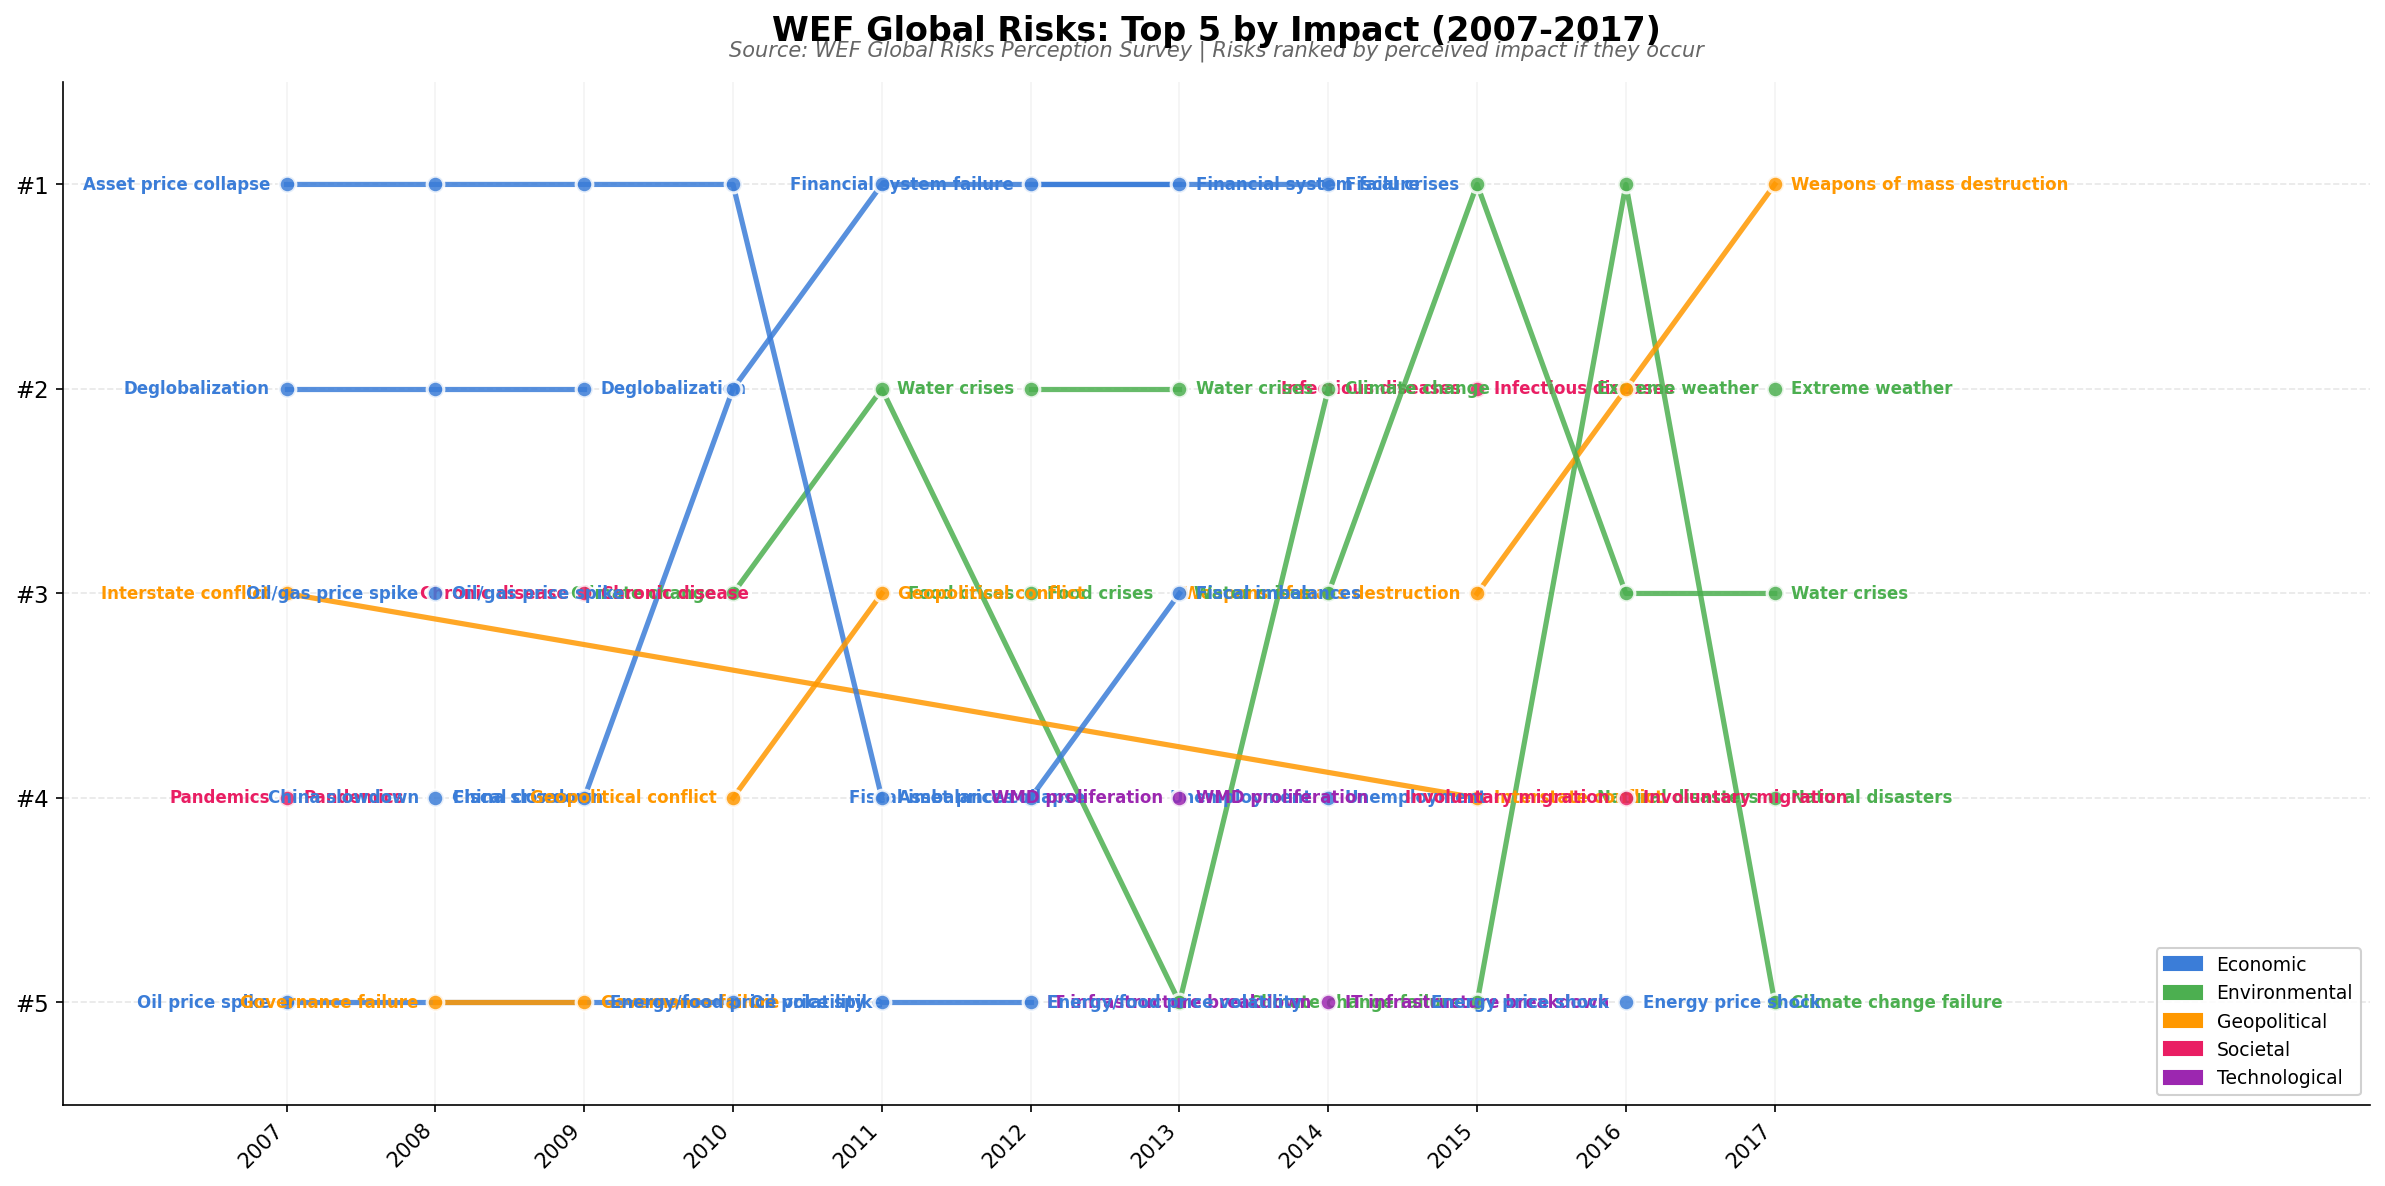
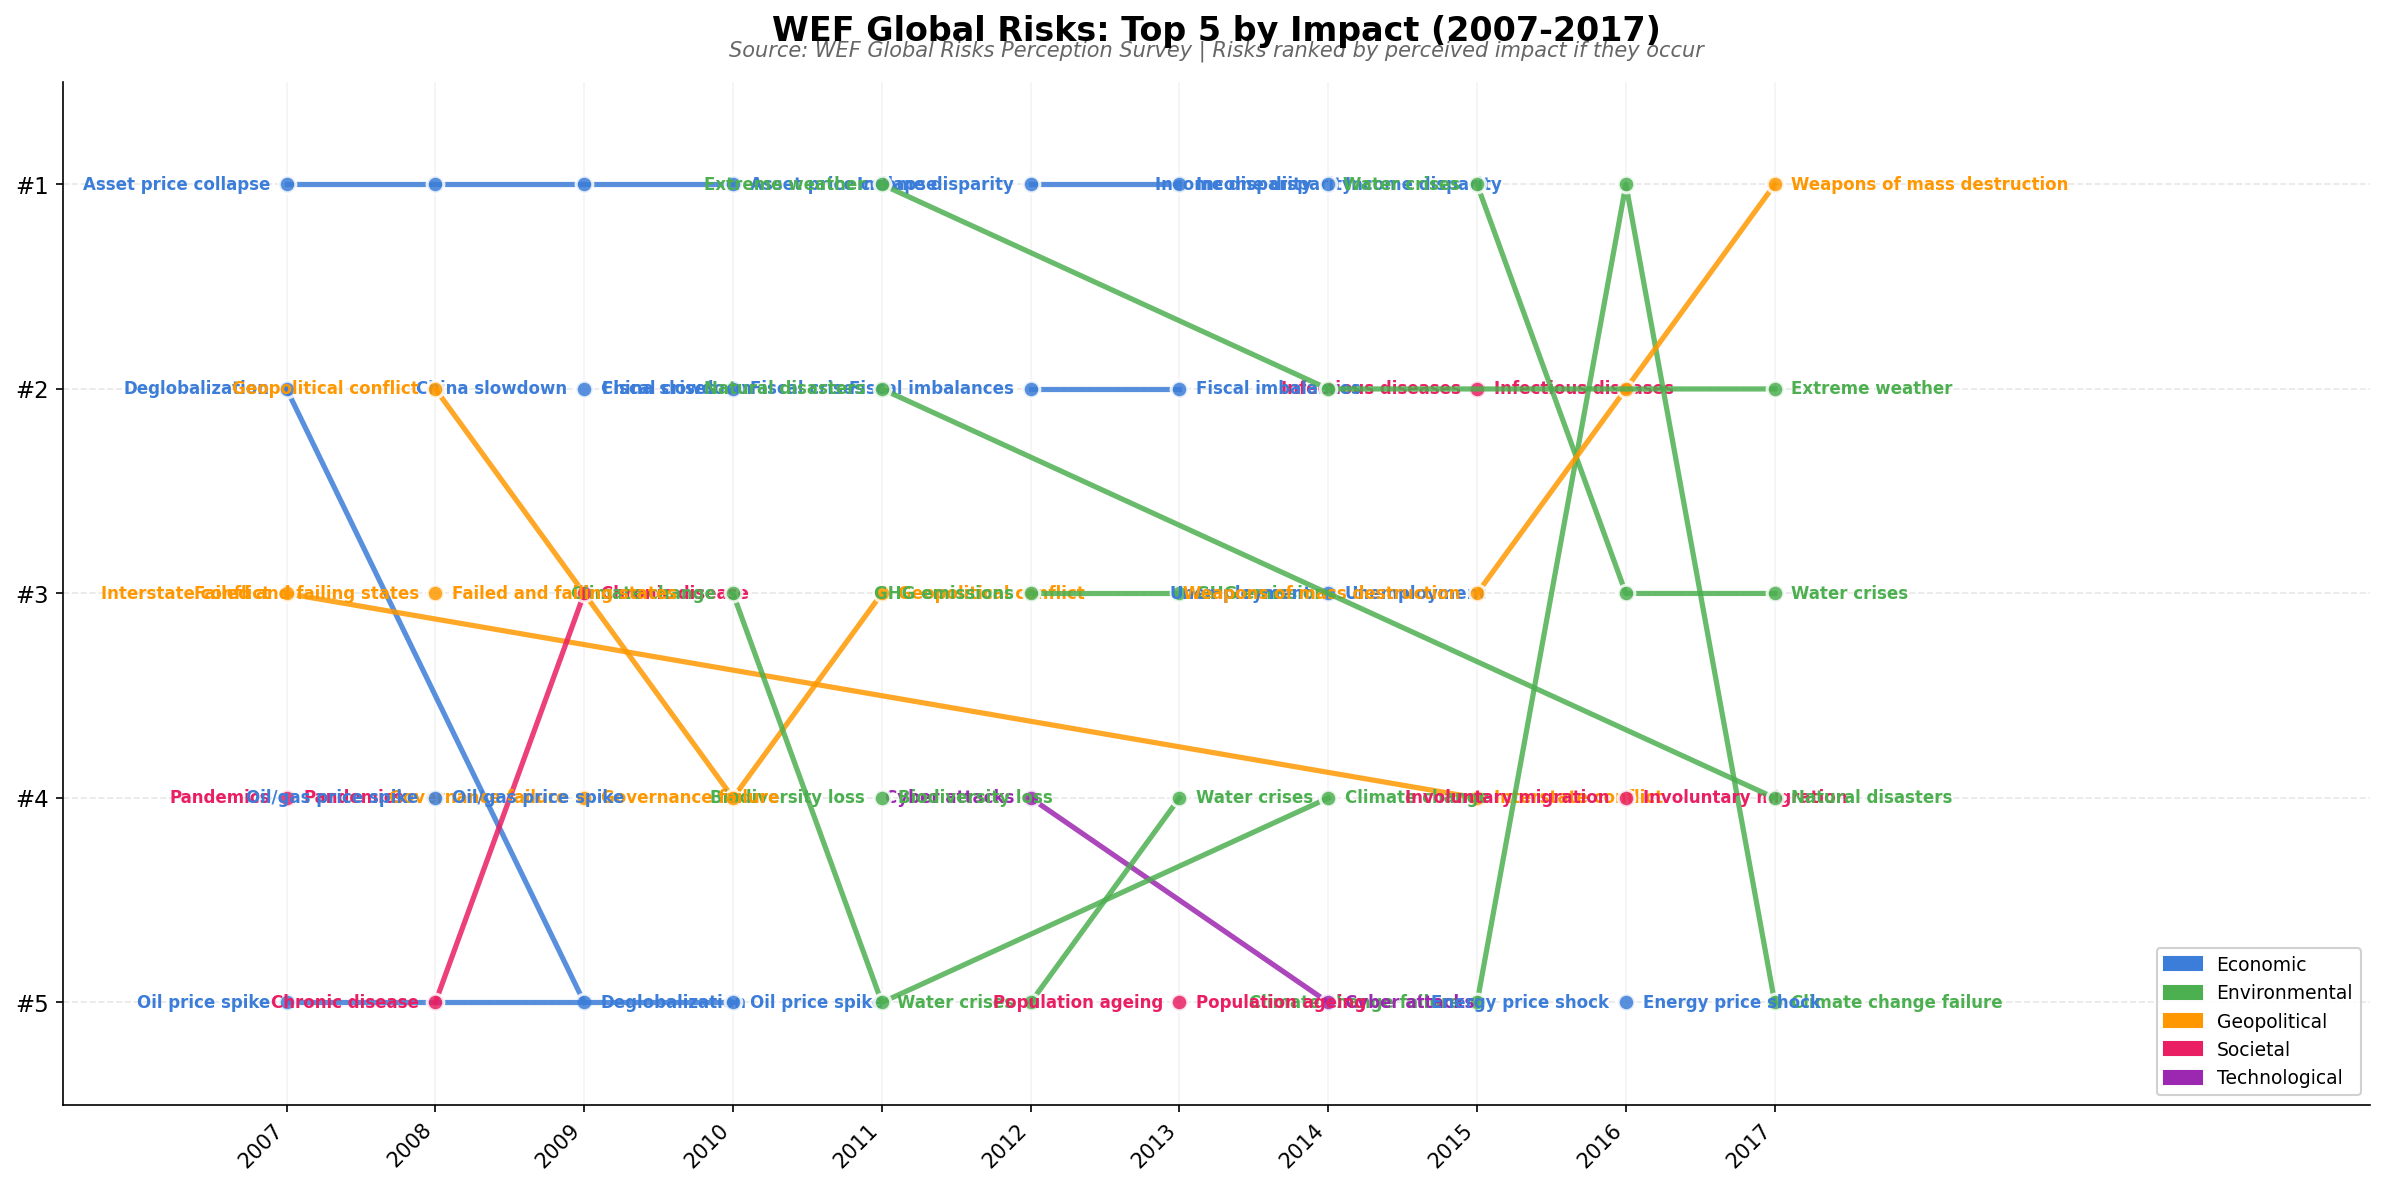
Fix impact rankings data from 2017 retrospective, add missing normalizations, regenerate charts
Agent-Logs-Url: https://github.com/zilch-sand/experiments/sessions/d0eb9f2d-68b7-498d-b790-b69d50a9737f

diff --git a/wef-global-risks/data.py b/wef-global-risks/data.py
@@ -100,6 +100,7 @@ RISK_CATEGORIES = {
     "Interstate armed conflict": "Geopolitical",
     "State-based armed conflict": "Geopolitical",
     "Geopolitical conflict": "Geopolitical",
+    "Middle East instability": "Geopolitical",
     "Failed and failing states": "Geopolitical",
     "State collapse or crisis": "Geopolitical",
     "Failure of national governance": "Geopolitical",
@@ -203,7 +204,7 @@ TOP_LIKELIHOOD = {
         "Asset price collapse",
         "Climate change",
         "Geopolitical conflict",
-        "Asset price collapse",  # note: duplicate in source, likely "Oil price spike"
+        "Oil price spike",
         "Extreme energy price volatility",
     ],
     2011: [
@@ -306,14 +307,6 @@ TOP_LIKELIHOOD = {
     ],
 }
 
-# Fix 2010 - the source had a duplicate; based on the actual 2010 report landscape
-TOP_LIKELIHOOD[2010] = [
-    "Asset price collapse",
-    "Climate change",
-    "Geopolitical conflict",
-    "Oil price spike",
-    "Extreme energy price volatility",
-]
 
 
 # Top 5 by Impact - from the 2017 report's "Evolving Risks Landscape" figure
@@ -328,52 +321,52 @@ TOP_IMPACT = {
     ],
     2008: [
         "Asset price collapse",
-        "Retrenchment from globalization",
+        "Geopolitical conflict",  # "Middle East instability" in source
+        "Failed and failing states",
         "Oil and gas price spike",
-        "Slowing Chinese economy",
-        "Global governance failure",
+        "Chronic disease",
     ],
     2009: [
         "Asset price collapse",
-        "Retrenchment from globalization",
+        "Slowing Chinese economy",
         "Chronic disease",
-        "Fiscal crises",
-        "Global governance failure",
+        "Global governance failure",  # "Global governance gaps" in source
+        "Retrenchment from globalization",
     ],
     2010: [
         "Asset price collapse",
-        "Climate change",  # storms and cyclones = climate in the source
-        "Geopolitical conflict",  # "corruption" in source, but mapped to conflict
-        "Biodiversity loss",
-        "Extreme energy price volatility",
+        "Slowing Chinese economy",
+        "Chronic disease",
+        "Fiscal crises",
+        "Global governance failure",  # "Global governance gaps" in source
     ],
     2011: [
-        "Fiscal crises",
+        "Extreme weather events",  # "Storms and cyclones" in source
+        "Natural disasters",  # "Flooding" in source
+        "Geopolitical conflict",  # "Corruption" in source — a governance risk, mapped here for simplicity
+        "Biodiversity loss",
         "Climate change",
-        "Geopolitical conflict",
-        "Asset price collapse",
-        "Extreme volatility in energy and agriculture prices",
     ],
     2012: [
-        "Major systemic financial failure",
-        "Water supply crises",
-        "Food shortage crises",
+        "Severe income disparity",
         "Chronic fiscal imbalances",
-        "Extreme volatility in energy and agriculture prices",
+        "Rising greenhouse gas emissions",
+        "Cyber attacks",
+        "Water supply crises",
     ],
     2013: [
-        "Major systemic financial failure",
-        "Water supply crises",
+        "Severe income disparity",
         "Chronic fiscal imbalances",
-        "Diffusion of weapons of mass destruction",
-        "Climate change",
+        "Rising greenhouse gas emissions",
+        "Water supply crises",
+        "Mismanagement of population ageing",
     ],
     2014: [
-        "Fiscal crises",
-        "Climate change",
-        "Water crises",
+        "Income disparity",
+        "Extreme weather events",
         "Unemployment or underemployment",
-        "Critical information infrastructure breakdown",
+        "Climate change",
+        "Cyber attacks",
     ],
     2015: [
         "Water crises",
@@ -648,6 +641,7 @@ NORMALIZE = {
     "Interstate armed conflict": "Interstate conflict",
     "State-based armed conflict": "Interstate conflict",
     "Geopolitical conflict": "Interstate conflict",
+    "Middle East instability": "Interstate conflict",
     "Failed and failing states": "State collapse",
     "State collapse or crisis": "State collapse",
     "Failure of national governance": "Governance failure",
